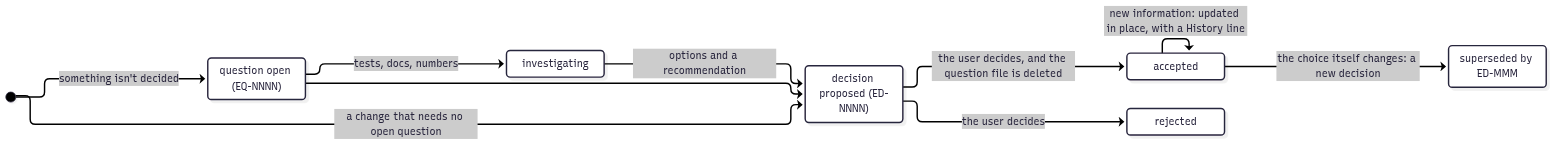
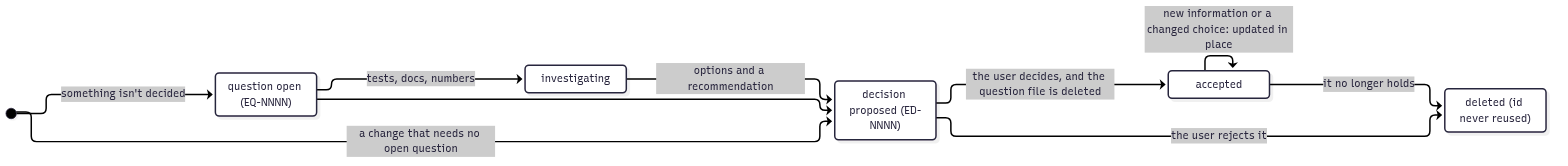
docs: describe only the present; research decisions in docs/research
Committed files now describe how things are, not how they were: decisions lose their History sections, and the reorganization-only decisions are deleted with their ids reserved (ED-0035, ED-0037, and the research-structure one). ED-0034 becomes RD-0001 in docs/research/decisions/; research questions get docs/research/questions/. Ids count separately per area and type.

diff --git a/.claude/skills/expert-review/scripts/check_hygiene.py b/.claude/skills/expert-review/scripts/check_hygiene.py
@@ -50,8 +50,8 @@ UK = re.compile(
 ID_FOLDERS = {
     "ED": "docs/engineering/decisions",
     "EQ": "docs/engineering/questions",
-    "RD": "docs/research/method/decisions",
-    "RQ": "docs/research/method/questions",
+    "RD": "docs/research/decisions",
+    "RQ": "docs/research/questions",
 }
 
 
@@ -66,10 +66,11 @@ def committable() -> list[Path]:
     return [REPO / p for p in out.splitlines() if (REPO / p).is_file()]
 
 
-def highest_question_ids() -> dict[str, int]:
-    """The "highest id used" recorded in each questions index, e.g. {"EQ": 14}."""
+def highest_ids() -> dict[str, int]:
+    """The "highest id used" recorded in each decisions and questions index,
+    e.g. {"ED": 37, "EQ": 14}."""
     found = {}
-    for prefix in ("EQ", "RQ"):
+    for prefix in ID_FOLDERS:
         index = REPO / ID_FOLDERS[prefix] / "README.md"
         if index.is_file():
             m = re.search(
@@ -80,14 +81,15 @@ def highest_question_ids() -> dict[str, int]:
     return found
 
 
-HIGHEST_QUESTIONS = highest_question_ids()
+HIGHEST = highest_ids()
 
 
-def is_closed_question(question_id: str) -> bool:
-    """Closed questions are deleted (ED-0016), but their ids, up to the highest id used,
-    remain valid in history (e.g. a decision's "Answers:" line)."""
-    prefix, number = question_id[:2], int(question_id[3:])
-    return prefix in HIGHEST_QUESTIONS and number <= HIGHEST_QUESTIONS[prefix]
+def is_reserved(item_id: str) -> bool:
+    """Closed questions and deleted decisions have no file (ED-0016), but their ids,
+    up to the highest id used, stay reserved and valid where they're mentioned (e.g. a
+    decision's "Answers:" line)."""
+    prefix, number = item_id[:2], int(item_id[3:])
+    return prefix in HIGHEST and number <= HIGHEST[prefix]
 
 
 def anchors(md: Path) -> set[str]:
@@ -143,8 +145,8 @@ def main() -> None:
                 issues["Links"].append(f"`{rel}`: missing heading `{target}{anchor}`")
         for m in ID.finditer(prose):
             folder = REPO / ID_FOLDERS[m.group(1)[:2]]
-            if is_closed_question(m.group(1)):
-                continue  # answered and deleted: its id stays valid history
+            if is_reserved(m.group(1)):
+                continue  # closed or deleted: its id stays reserved
             if not list(folder.glob(f"{m.group(1)}-*.md")):
                 issues["Ids"].append(
                     f"`{rel}`: `{m.group(1)}` has no file in "

diff --git a/docs/engineering/decisions/README.md b/docs/engineering/decisions/README.md
@@ -2,7 +2,7 @@
 
 Technical and organizational decisions: how the repository, the environment and the compute setup work.
 
-Research decisions (methods, datasets, metrics) belong to the research area. They get `RD-` ids, in [docs/research/method/](../../research/method/README.md), in their own folder created with the first one.
+Research decisions (methods, datasets, metrics, and how the research docs work) belong to the research area: [docs/research/decisions/](../../research/decisions/README.md), with `RD-` ids.
 
 **Decisions are history and rationale, not the documentation.** How things work is always described in the engineering docs ([setup](../setup.md), [cluster](../cluster.md), [running](../running.md), [runs](../runs.md), [CONTRIBUTING](../../../CONTRIBUTING.md), the folder READMEs), which link to the decisions for the *why*. A decision never holds the only copy of an operational fact.
 
@@ -16,15 +16,17 @@ Research decisions (methods, datasets, metrics) belong to the research area. The
 
 - **One file per decision:** `ED-NNNN-short-slug.md`, e.g. `ED-0001-python-and-pytorch.md`.
 - **Stable ids:**
-  - an id and its file name never change, with two recorded exceptions: on 2026-11-08 every `PD-NNN` became `ED-NNN` and every `PQ-NNN` became `EQ-NNN` ([ED-0035](ED-0035-engineering-folder.md)); on 2026-11-09 every id became 4 digits, e.g. `ED-034` → `ED-0034` ([ED-0037](ED-0037-four-digit-ids.md)). Older commit messages use the old forms;
-  - an id is never reused, not even for a rejected decision;
+  - an id and its file name never change;
+  - an id is never reused, not even for a deleted decision; engineering decisions have their own counter, separate from questions and from research decisions;
   - only a typo in a title may be fixed;
-  - the next id is the highest existing one plus one.
-- **Statuses:** `proposed` → `accepted` → `superseded by ED-NNNN`, or `rejected`. Only the user accepts or rejects a decision.
-- **Decisions are not frozen.** When new information emerges (a test result, a cluster rule, a consequence), update the decision in place, even after it is accepted and committed, and add a dated line to its **History** saying what changed and why.
-- **When the choice itself is reversed,** write a new decision that supersedes it, and change the old one's status line to `superseded by ED-NNNN`, so both the old reasons and the new ones stay readable.
-- **A decision that no longer holds** is either kept, with its status (`superseded by ED-NNNN` or `rejected`) and a line saying why, or deleted. Keep it when its reasons are still worth knowing (e.g. it's likely to be proposed again); delete it when nothing depends on it and the new decision already explains the change. Either way, its id is never reused.
-- **Docs follow decisions.** When a decision is accepted, updated or superseded, in the same step:
+  - the next id is the **highest id used** (recorded below the index) plus one.
+- **Statuses:** `proposed` → `accepted`. Only the user accepts a decision; a rejected proposal is deleted.
+- **Decisions describe the present.** Every decision states a choice that holds now, and why; the repository's past (old paths, names, ids) lives only in git history.
+- **Decisions are not frozen.** When new information emerges (a test result, a cluster rule, a consequence), update the decision in place, even after it is accepted and committed.
+- **When the choice itself changes,** update the decision so it states the new choice; it may say briefly what changed and why, under **Changes**, one dated line each. Moves, renames and rewordings are never logged: a decision is not a changelog.
+- **A decision that no longer holds** is deleted, and a new decision is written if a new choice replaces it. Its id is never reused.
+- **A reorganization is not a decision:** moving or renaming files, folders or ids changes the docs that describe them, and the commit message says why.
+- **Docs follow decisions.** When a decision is accepted, updated or deleted, in the same step:
   - update every Markdown file it affects, and every diagram ([diagrams](../assets/README.md));
   - close the [questions](../questions/README.md) it answers: their content moves into the decision, and the question files are deleted.
 - **Short and readable:** about one screen, one idea per line, lists as bullets. Link to details instead of restating them.
@@ -34,11 +36,11 @@ Research decisions (methods, datasets, metrics) belong to the research area. The
 ```markdown
 # ED-NNNN — <the choice, stated as what we do>
 
-- **Status:** proposed | accepted | superseded by ED-NNNN | rejected
+- **Status:** proposed | accepted
 - **Date:** YYYY-MM-DD
 - **Decided by:** the author
 - **Answers:** question EQ-NNNN (opened YYYY-MM-DD, …), if the decision closes one
-- **History:** (once it changes) one dated line per update: what changed, and why
+- **Changes:** (only if the choice itself changed) one dated line per change: what changed, and why
 
 ## Problem
 
@@ -110,7 +112,5 @@ What we chose, and why. How it was verified, if it was.
 | [ED-0031](ED-0031-vs-code.md) | Shared VS Code tasks, debug configurations, extensions and settings | accepted | 2026-11-02 |
 | [ED-0032](ED-0032-experiment-ids.md) | Experiments are named `e<NNNN>-<slug>`, and each has a short doc | accepted | 2026-11-02 |
 | [ED-0033](ED-0033-training-curves.md) | Training curves go in the run folder (`results/history.jsonl`); no wandb for now | accepted | 2026-11-02 |
-| [ED-0034](ED-0034-literature.md) | Papers: bibkeys, PDFs kept local, verified distillation notes as the source of truth | accepted | 2026-11-02 |
-| [ED-0035](ED-0035-engineering-folder.md) | The technical docs are "engineering": `docs/engineering/`, with ids `ED-`/`EQ-` | accepted | 2026-11-08 |
-| [ED-0036](ED-0036-research-docs.md) | The research docs: literature, knowledge (generic above, time-series below), method; ids `RD-`/`RQ-` | accepted | 2026-11-08 |
-| [ED-0037](ED-0037-four-digit-ids.md) | Ids have 4 digits: decisions, questions and experiments | accepted | 2026-11-09 |
+
+**Highest id used:** ED-0037. The next decision takes the number after it, even if decisions with lower numbers have been deleted.

diff --git a/docs/research/decisions/RD-0001-literature.md b/docs/research/decisions/RD-0001-literature.md
@@ -1,19 +1,14 @@
-# ED-0034 — Papers: bibkeys, PDFs kept local, verified distillation notes as the source of truth
+# RD-0001 — Papers: bibkeys, PDFs kept local, verified distillation notes as the source of truth
 
 - **Status:** accepted
 - **Date:** 2026-11-02
 - **Decided by:** the author
-- **History:**
-  - 2026-11-09: the PDFs moved from `papers/` at the repository root to `docs/research/literature/papers/`, beside their notes; still git-ignored. No download script: each entry's title and source say where to get a paper again.
-  - 2026-11-08: the no-names rule was dropped ([ED-0018](ED-0018-self-contained-repository.md)), so author names need no exception.
-  - 2026-11-08: the research area moved from `docs/domain/` to `docs/research/`, and `references.bib` into `literature/` ([ED-0036](ED-0036-research-docs.md)); public code may be a reference too, as a pinned `@software` entry with a checklist note ([literature README](../../research/literature/README.md)).
 
 ## Problem
 
 - The research builds on 24 papers, about 96 MB of PDFs, downloaded under inconsistent names: arXiv ids (`2212.04089v3.pdf`), submission numbers with truncated titles (`11979_Merging_on_the_Fly_Witho.pdf`), and hand-numbered titles whose numbers collide across two folders.
 - The repository is public: most papers can't be redistributed, especially submissions still under review, and several PDFs exceed the 5 MB limit for committed files.
 - What a paper says must be available to anyone working on the repository, and checkable, without the PDF.
-- Citing a paper means naming its authors, which the no-names rule ([ED-0018](ED-0018-self-contained-repository.md)) forbade everywhere.
 
 ## Options
 
@@ -32,12 +27,12 @@
 
 - **Names: C.** First author's surname + year + first meaningful title word, lowercase ASCII; anonymous submissions get `anon<year><word>` until their authors are known.
 - **Location: B.**
-  - PDFs in `docs/research/literature/papers/<bibkey>.pdf`, git-ignored (at the repository root until 2026-11-09).
+  - PDFs in `docs/research/literature/papers/<bibkey>.pdf`, git-ignored, beside the notes. There is no download script: each entry's title and source say where to get a paper.
   - `docs/research/literature/references.bib` holds one entry per paper: identifiers, URL, the version read, the original file name.
   - `docs/research/literature/<bibkey>.md` holds one note per paper.
 - **The notes are the source of truth for what a paper says:** equations in LaTeX, setups and the numbers we may compare against, every item with its page; our own comments marked as such.
 - **Verified before done:** an independent agent compares each note with its paper; unsupported or misstated claims are fixed before the note is marked `verified`.
-- **Author names are allowed in bibliographic content** (since 2026-11-08, names are allowed everywhere: [ED-0018](ED-0018-self-contained-repository.md)).
+- **Public code can be a reference too:** a `@software` entry pinned to a commit, with a note listing what to check in the code ([literature README](../literature/README.md)).
 - **Earlier notes are not imported:** the knowledge base is rebuilt from the sources, never copied from earlier notes, and committed files don't refer to them.
 - **Order:** the 8 model-merging and continual-learning papers first (a pilot note reviewed before the others), then the 6 background papers; the 10 other time-series papers only if found relevant.
 
@@ -45,7 +40,7 @@
 
 - Each machine needs its own copy of the PDFs; `references.bib` says where to get each one.
 - A note costs more than a summary (page references, transcribed equations, a verification pass), but it replaces the PDF for this project.
-- Documented in [docs/research/README.md](../../research/README.md) and [docs/research/literature/README.md](../../research/literature/README.md).
+- Documented in [docs/research/README.md](../README.md) and [docs/research/literature/README.md](../literature/README.md).
 
 ## Revisit if
 

diff --git a/CLAUDE.md b/CLAUDE.md
@@ -6,7 +6,7 @@ tsmerge is a master's thesis repo (AI Engineering, Unimore) on joint training vs
 
 - [README.md](README.md), then the `README.md` of every folder you work in: they describe what the folder holds and how it is used.
 - `CLAUDE.local.md` (git-ignored, if present): personal and machine-specific context.
-- [docs/engineering/decisions/README.md](docs/engineering/decisions/README.md): why things are the way they are. Read the relevant decision before changing what it covers.
+- [docs/engineering/decisions/README.md](docs/engineering/decisions/README.md) and [docs/research/decisions/README.md](docs/research/decisions/README.md): why things are the way they are. Read the relevant decision before changing what it covers.
 
 ## Rules
 
@@ -24,8 +24,9 @@ tsmerge is a master's thesis repo (AI Engineering, Unimore) on joint training vs
 - **Readable Markdown, written for humans.** A blank line between blocks, short paragraphs, one idea per line, and bullet lists for anything that enumerates. Split long sections with headings. When presenting options, give numbers where they exist (counts, percentages, costs) and what each option gains and costs.
 - **Folder `CLAUDE.md` files:** none yet. When a folder first needs rules that only agents need, propose adding one there (starting with `@README.md`).
 - **Document what and why, as you go.** Every script, configuration file and folder says what it does and why it exists: in the folder's README, a decision, or a short comment. Write it together with the change, not afterwards; a new file also gets its line in the inventory of [docs/engineering/overview.md](docs/engineering/overview.md#every-file-in-the-repository) (a test checks it).
-- **Record problems with their solutions.** When a problem is found (a review, a failed run, a bug), write down the problem, why it mattered and how it was solved, in a decision or the relevant doc; what isn't solved yet becomes an open question. Never leave it only in the conversation.
+- **Record problems with their solutions.** When a problem is found (a review, a failed run, a bug), write down the problem, why it mattered and how it was solved, in a decision (its Problem section) or as the rule in the relevant doc, not as a dated incident note; what isn't solved yet becomes an open question. Never leave it only in the conversation.
 - **Docs are the reference; decisions explain why.** Every operational fact lives in an engineering or research doc, or a folder README, which may link to the decision behind it. A decision is history and rationale, never the only place a fact is written.
+- **Describe the present.** Committed files say how things are now: no old paths, names or ids, no "was", "moved from" or dated change logs; the past lives in git history and commit messages. A decision may note a change of its choice (what changed and why), never a move or a rename ([decisions README](docs/engineering/decisions/README.md#rules)). Deleted decisions and questions keep their ids reserved.
 - **Docs follow decisions.** When a decision is made or changed, update every Markdown file it affects in the same step: committed files, untracked docs, and `CLAUDE.local.md`. Never leave a file stating something a decision has changed.
 - **Diagrams follow the docs.** Every time you update the docs, check whether the pictures that illustrate them still match: each doc folder keeps its pictures, and what generates them, in an `assets/` folder beside it ([docs/README.md](docs/README.md#assets)). If not, update the `.mmd` sources or drawing scripts and regenerate the images (`scripts/render_diagrams.sh` for diagrams) in the same step.
 - **Knowledge is written down.** When the user asks you to remember a rule, write it here or in the README it belongs to (personal or machine-specific context: `CLAUDE.local.md`), never only in session memory, so fresh sessions follow it too.

diff --git a/docs/research/literature/README.md b/docs/research/literature/README.md
@@ -1,14 +1,14 @@
 # Literature
 
-One distillation note per paper. **The notes are the source of truth for what a paper says:** the PDFs stay local and uncommitted, so a note must hold everything this project needs from its paper, checked against it ([ED-0034](../../engineering/decisions/ED-0034-literature.md)).
+One distillation note per paper. **The notes are the source of truth for what a paper says:** the PDFs stay local and uncommitted, so a note must hold everything this project needs from its paper, checked against it ([RD-0001](../decisions/RD-0001-literature.md)).
 
 ## Rules
 
 - **One file per paper:** `<bibkey>.md`, with the paper's entry in [references.bib](references.bib) and its PDF in the git-ignored `papers/<bibkey>.pdf` here, beside the notes. Each entry's `title` names the paper, so a PDF is identified by its file name alone.
 - **Everything is traceable:** every equation, number and claim carries the page it comes from (`p. 4`, `Table 2, p. 7`). What isn't in the paper isn't in the note; our own comments are marked as such (**Our reading:**).
 - **Pages are the PDF's own pages,** counted from 1 (the `pNN.png` of `render_pages.sh`), which may differ from the number printed on the page.
-- **Equations in LaTeX, numbers exactly as printed:** results we may compare against are copied as tables, with their units and settings.
-- **Read from the page images,** not from extracted text, so equations and tables come through correctly: `scripts/render_pages.sh <bibkey>` writes one PNG per page to `outputs/pages/<bibkey>/`. The default resolution (scale 2.2) keeps subscripts and small table cells legible; for a page that is still hard to read, render again with `--scale 3` into another folder. (The first notes were read at scale 1.6, which proved too small for some cells: their writers rendered zoomed copies.)
+- **Equations in LaTeX, numbers exactly as printed:** results we may compare against are copied as tables, with their units and settings. Use only macros GitHub's math renderer allows: `\mathrm{dist}`, not `\operatorname{dist}`, which GitHub shows as an error box.
+- **Read from the page images,** not from extracted text, so equations and tables come through correctly: `scripts/render_pages.sh <bibkey>` writes one PNG per page to `outputs/pages/<bibkey>/`. The default resolution (scale 2.2) keeps subscripts and small table cells legible; for a page that is still hard to read, render again with `--scale 3` into another folder.
 - **Verified before done:** after the note is written, an independent agent reads the paper and the note and lists every claim it can't find in the paper, or finds stated differently. The note is fixed, and only then marked `verified`, with the date.
 - **A paper's own code link** (from the paper itself) belongs in its note's header: it's part of the bibliographic record, not a link to another project of ours.
 - **Public code can be a reference too** (e.g. a benchmark library): a `@software` entry pinned to a commit, and a note that lists what to check in the code, with where each question came from; items are checked, with `file:line`, when an experiment needs them.

diff --git a/docs/README.md b/docs/README.md
@@ -4,14 +4,14 @@ Everything we write lives here. External sources (papers) are kept apart and nev
 
 ## Knowledge first
 
-Every experiment answers a question, every result supports or refutes a claim, and every structural change has a decision. Each has a stable, grep-able id: never changed, never reused.
+Every experiment answers a question, every result supports or refutes a claim, and every lasting choice has a decision. Each has a stable, grep-able id: never changed, never reused, even after its file is deleted. Ids are unique per area and type: engineering questions (`EQ-`), engineering decisions (`ED-`), research questions (`RQ-`), research decisions (`RD-`) and experiments (`e`) each count on their own.
 
 | Type | Id |
 |---|---|
 | Question | `EQ-NNNN` (engineering), `RQ-NNNN` (research) |
 | Decision | `ED-NNNN` (engineering), `RD-NNNN` (research) |
 | Experiment | `eNNNN-<slug>`, e.g. `e0001-joint-vs-merge` ([ED-0032](engineering/decisions/ED-0032-experiment-ids.md)) |
-| Claim | to be defined, with the domain docs |
+| Claim | to be defined, with the method docs |
 | Paper | bibkey |
 
 Knowledge flows one way: sources → literature notes → concepts → questions → experiments → results → claims → thesis. Later layers link to earlier ones and never restate them.
@@ -23,7 +23,7 @@ Knowledge flows one way: sources → literature notes → concepts → questions
 *Source: [assets/repository-map.mmd](assets/repository-map.mmd)*
 
 - [engineering/](engineering/README.md): all the technical work around the research: setup, the environment, the Unimore cluster, running and recording runs, checks and tooling, with its decisions (`ED-`) and open questions (`EQ-`).
-- [research/](research/README.md): the research itself: [literature/](research/literature/README.md) (what others published: paper notes and the bibliography), [knowledge/](research/knowledge/README.md) (general theory, one concept per doc) and [method/](research/method/README.md) (everything specific to this work: questions, decisions, protocol, experiments, findings), with its decisions (`RD-`) and questions (`RQ-`).
+- [research/](research/README.md): the research itself: [literature/](research/literature/README.md) (what others published: paper notes and the bibliography), [knowledge/](research/knowledge/README.md) (general theory, one concept per doc) and [method/](research/method/README.md) (everything specific to this work: protocol, experiments, findings), with its [decisions](research/decisions/README.md) (`RD-`) and [questions](research/questions/README.md) (`RQ-`).
 
 ## Assets
 

diff --git a/docs/research/README.md b/docs/research/README.md
@@ -2,7 +2,7 @@
 
 What the research is about and how it's done. How the repository's machinery works (setup, the cluster, runs, checks) is in [engineering/](../engineering/README.md).
 
-The area is built step by step, and every part is checked against its sources before it's marked done. How it's organized, and why: [ED-0036](../engineering/decisions/ED-0036-research-docs.md).
+The area is built step by step, and every part is checked against its sources before it's marked done.
 
 ## Contents
 
@@ -10,7 +10,9 @@ The area is built step by step, and every part is checked against its sources be
 |---|---|---|
 | [literature/](literature/README.md) | What others published: one note per paper, the bibliography ([references.bib](literature/references.bib)), and code references | 17 papers verified, 1 code reference |
 | [knowledge/](knowledge/README.md) | General theory, one concept per doc, independent of this thesis: signals, time series, change over time, evaluation, models, learning | 16 docs written, 35 placeholders |
-| [method/](method/README.md) | Everything specific to this work: research questions, research decisions, the protocol, experiments, findings | planned |
+| [method/](method/README.md) | Everything specific to this work: the protocol, experiments, findings | planned |
+| [decisions/](decisions/README.md) | Research decisions (`RD-`): why the research and its docs work the way they do | 2 accepted |
+| [questions/](questions/README.md) | Open research questions (`RQ-`) | none yet |
 
 Each area answers a different question:
 
@@ -27,9 +29,9 @@ Each area answers a different question:
 | Research decision | `RD-NNNN` | — |
 | Experiment | `e<NNNN>-<slug>` ([ED-0032](../engineering/decisions/ED-0032-experiment-ids.md)) | `e0001-joint-vs-merge` |
 
-- **Anonymous submissions** get `anon<year><word>` (e.g. `anon2026quasi`), renamed once their authors are known; the old key is then recorded in the entry's `note`.
+- **Anonymous submissions** get `anon<year><word>` (e.g. `anon2026quasi`), renamed once their authors are known.
 - A bibkey never changes otherwise, and is never reused.
-- Research questions and decisions live under `method/`, in `questions/` and `decisions/`, created with the first one.
+- Research decisions and questions live in [decisions/](decisions/README.md) and [questions/](questions/README.md), with the same rules as the engineering ones.
 
 ## Rules
 

diff --git a/docs/engineering/overview.md b/docs/engineering/overview.md
@@ -126,10 +126,11 @@ Reference: [CONTRIBUTING.md](../../CONTRIBUTING.md).
 
 - `docs/research/literature/`: one verified distillation note per paper, the source of truth for what it says, and code references (a checklist per library); `references.bib` there is the bibliography, one entry per source, keyed by bibkey (`ilharco2023editing`).
 - `docs/research/knowledge/`: general theory for people, one concept per doc (signals, time series, change over time, evaluation, models, learning); figures drawn by one script per `assets/` folder.
-- `docs/research/method/`: everything specific to this work (questions `RQ-`, decisions `RD-`, protocol, experiments, findings), created as it's needed.
-- The PDFs themselves stay local, in the git-ignored `docs/research/literature/papers/` folder, beside their notes: the repository is public, and most papers can't be redistributed ([ED-0034](decisions/ED-0034-literature.md)).
+- `docs/research/method/`: everything specific to this work (protocol, experiments, findings), created as it's needed.
+- `docs/research/decisions/` and `docs/research/questions/`: research decisions (`RD-`) and open research questions (`RQ-`), including how the research docs themselves work.
+- The PDFs themselves stay local, in the git-ignored `docs/research/literature/papers/` folder, beside their notes: the repository is public, and most papers can't be redistributed ([RD-0001](../research/decisions/RD-0001-literature.md)).
 
-Reference: [docs/research/README.md](../research/README.md) ([ED-0036](decisions/ED-0036-research-docs.md)).
+Reference: [docs/research/README.md](../research/README.md).
 
 ## 11. On your machine only (git-ignored)
 
@@ -141,7 +142,7 @@ Reference: [docs/research/README.md](../research/README.md) ([ED-0036](decisions
 | `outputs/expert-reviews/` | expert-review reports, and the guard's log |
 | `outputs/pages/` | papers' pages rendered as images |
 | `data/` | datasets ([ED-0020](decisions/ED-0020-dataset-location.md)) |
-| `docs/research/literature/papers/` | the papers' PDFs, named by bibkey ([ED-0034](decisions/ED-0034-literature.md)) |
+| `docs/research/literature/papers/` | the papers' PDFs, named by bibkey ([RD-0001](../research/decisions/RD-0001-literature.md)) |
 | `.env` | your personal values |
 | `.venv/` | the Python environment |
 | `CLAUDE.local.md` | personal context for AI agents |

diff --git a/docs/engineering/decisions/ED-0032-experiment-ids.md b/docs/engineering/decisions/ED-0032-experiment-ids.md
@@ -4,9 +4,6 @@
 - **Date:** 2026-11-02
 - **Decided by:** the author
 - **Answers:** question EQ-0003 (opened 2026-11-01, raised by the first expert review)
-- **History:**
-  - 2026-11-09: experiment ids have 4 digits, `e<NNNN>-<slug>` ([ED-0037](ED-0037-four-digit-ids.md)). Was: `e<NNN>-<slug>`.
-  - 2026-11-08: the research area is `docs/research/`; experiment docs and research questions (`RQ-`) live in its `method/` folder ([ED-0036](ED-0036-research-docs.md)). Was: the domain area, with `DQ-` ids.
 
 ## Problem
 
@@ -17,7 +14,7 @@
 
 - **A. The id is part of the name,** e.g. `e0001-joint-vs-merge`: grep-able in folders, `outputs/jobs.log` and `run.json`; runs sort by id. The id format is fixed now.
 - **B. A separate `experiment_id` field** in `config.json`, with free names: shorter names, but the link exists only inside files.
-- **C. Decide with the domain docs and the first real experiment:** fits a structure not known yet, but leaves the question open.
+- **C. Decide with the research docs and the first real experiment:** fits a structure not known yet, but leaves the question open.
 
 ## Decision
 
@@ -30,7 +27,7 @@ Option A:
 ## Consequences
 
 - Runs of an experiment are found by name everywhere: `outputs/runs/e0001-…/`, `run.json`'s `experiment`, `outputs/jobs.log`.
-- Research questions get `RQ-` ids in [docs/research/method/](../../research/method/README.md); each experiment doc links its questions.
+- Research questions get `RQ-` ids in [docs/research/questions/](../../research/questions/README.md); each experiment doc links its questions.
 - Documented in [runs.md](../runs.md#concepts).
 
 ## Revisit if

diff --git a/docs/research/decisions/README.md b/docs/research/decisions/README.md
@@ -1,0 +1,22 @@
+# Research decisions
+
+Decisions about the research and its documentation: methods, datasets, metrics, settings, the protocol, and how the research docs themselves are organized.
+
+Technical and organizational decisions (the repository, the environment, the cluster) are [engineering decisions](../../engineering/decisions/README.md) (`ED-`).
+
+**Decisions are history and rationale, not the documentation.** How things work is described in the research docs ([literature](../literature/README.md), [knowledge](../knowledge/README.md), [method](../method/README.md), this area's READMEs), which link here for the *why*.
+
+## Rules
+
+The same rules and template as the [engineering decisions](../../engineering/decisions/README.md#rules), with these differences:
+
+- **Ids:** `RD-NNNN`, in files `RD-NNNN-short-slug.md`; the next id is the **highest id used** (below the index) plus one. Ids never change and are never reused.
+- **Questions they answer** are research questions (`RQ-NNNN`, [questions/](../questions/README.md)).
+
+## Index
+
+| Id | Decision | Status | Date |
+|---|---|---|---|
+| [RD-0001](RD-0001-literature.md) | Papers: bibkeys, PDFs kept local, verified distillation notes as the source of truth | accepted | 2026-11-02 |
+
+**Highest id used:** RD-0001.

diff --git a/docs/engineering/decisions/ED-0018-self-contained-repository.md b/docs/engineering/decisions/ED-0018-self-contained-repository.md
@@ -3,10 +3,6 @@
 - **Status:** accepted
 - **Date:** 2026-11-01
 - **Decided by:** the author
-- **History:**
-  - 2026-11-02: authors' names are allowed in bibliographic content (the bibliography, the paper notes, the thesis text), since citing a paper names its authors; the hygiene check skips those paths for names only ([ED-0034](ED-0034-literature.md)).
-  - 2026-11-08: narrowed to what it was meant for. Only the private material used to build the repository is excluded (the author's own earlier work and repositories, local files, notes, drafts); public sources (papers, books, official documentation, public code) may be cited and linked. Was: no links to other repositories and no references to any external implementation, which read literally forbade citing public code and reference pages.
-  - 2026-11-08: personal names and the graduation date are no longer excluded, and the private-pattern check is removed: the goal was only to keep the repository independent of the private material used to build it and of this machine. Was: no personal names (except authors in bibliographic content) and no graduation date, checked against `PRIVATE_PATTERNS` in `.env`.
 
 ## Problem
 

diff --git a/docs/research/questions/README.md b/docs/research/questions/README.md
@@ -1,0 +1,24 @@
+# Research questions
+
+Open questions about the research: what this thesis asks and hasn't answered yet, and what is still undecided about its methods, data and evaluation.
+
+Technical and organizational questions are [engineering questions](../../engineering/questions/README.md) (`EQ-`).
+
+## Rules
+
+The same rules and template as the [engineering questions](../../engineering/questions/README.md#rules), with these differences:
+
+- **Ids:** `RQ-NNNN`, in files `RQ-NNNN-short-slug.md`; the next id is the **highest id used** (below the index) plus one, never reused.
+- **Closing a question:** its answer goes into a research decision (`RD-NNNN`, [decisions/](../decisions/README.md)), a method doc, or a finding.
+- **A research question may stay open for the whole thesis,** when it's what the experiments answer: each [experiment doc](../method/README.md) links the questions it addresses.
+
+## Index
+
+By id.
+
+| Id | Question | Status | Opened |
+|---|---|---|---|
+
+None yet.
+
+**Highest id used:** none yet. The first question takes number 0001.
